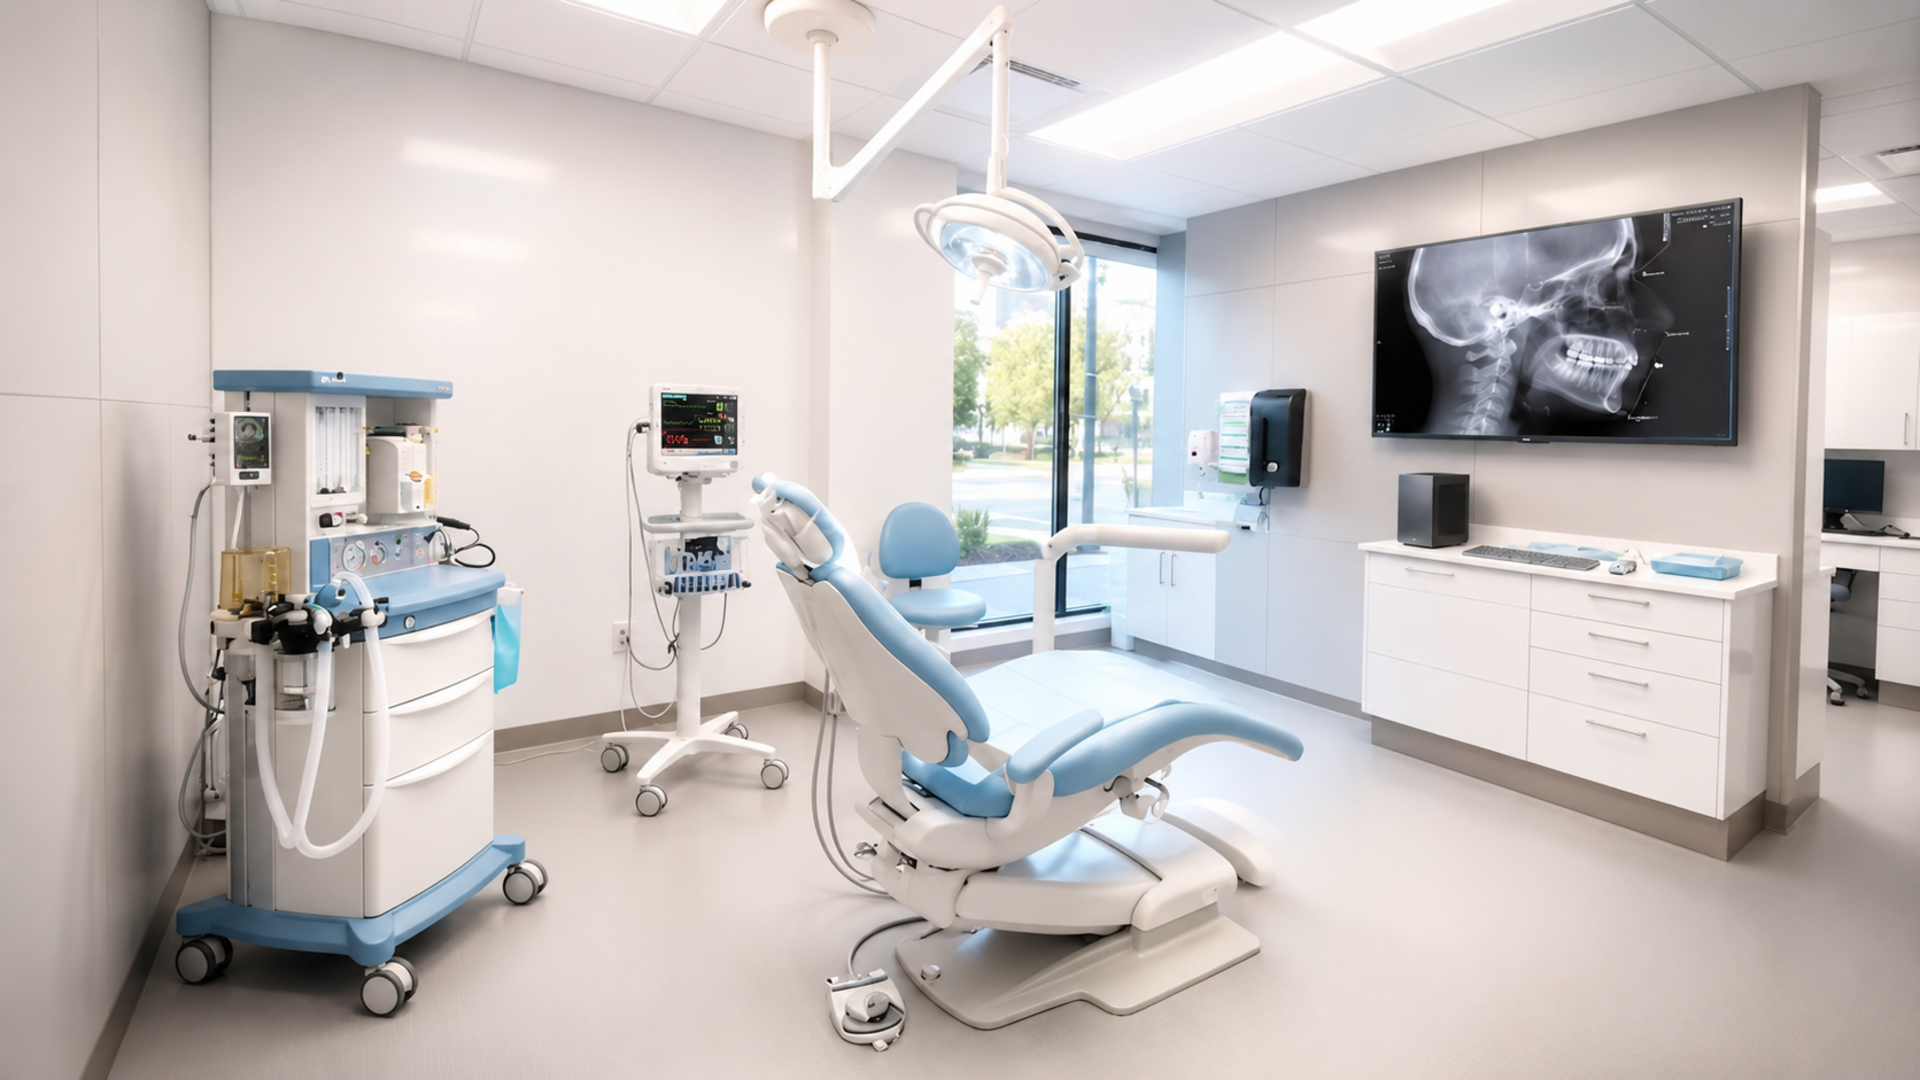
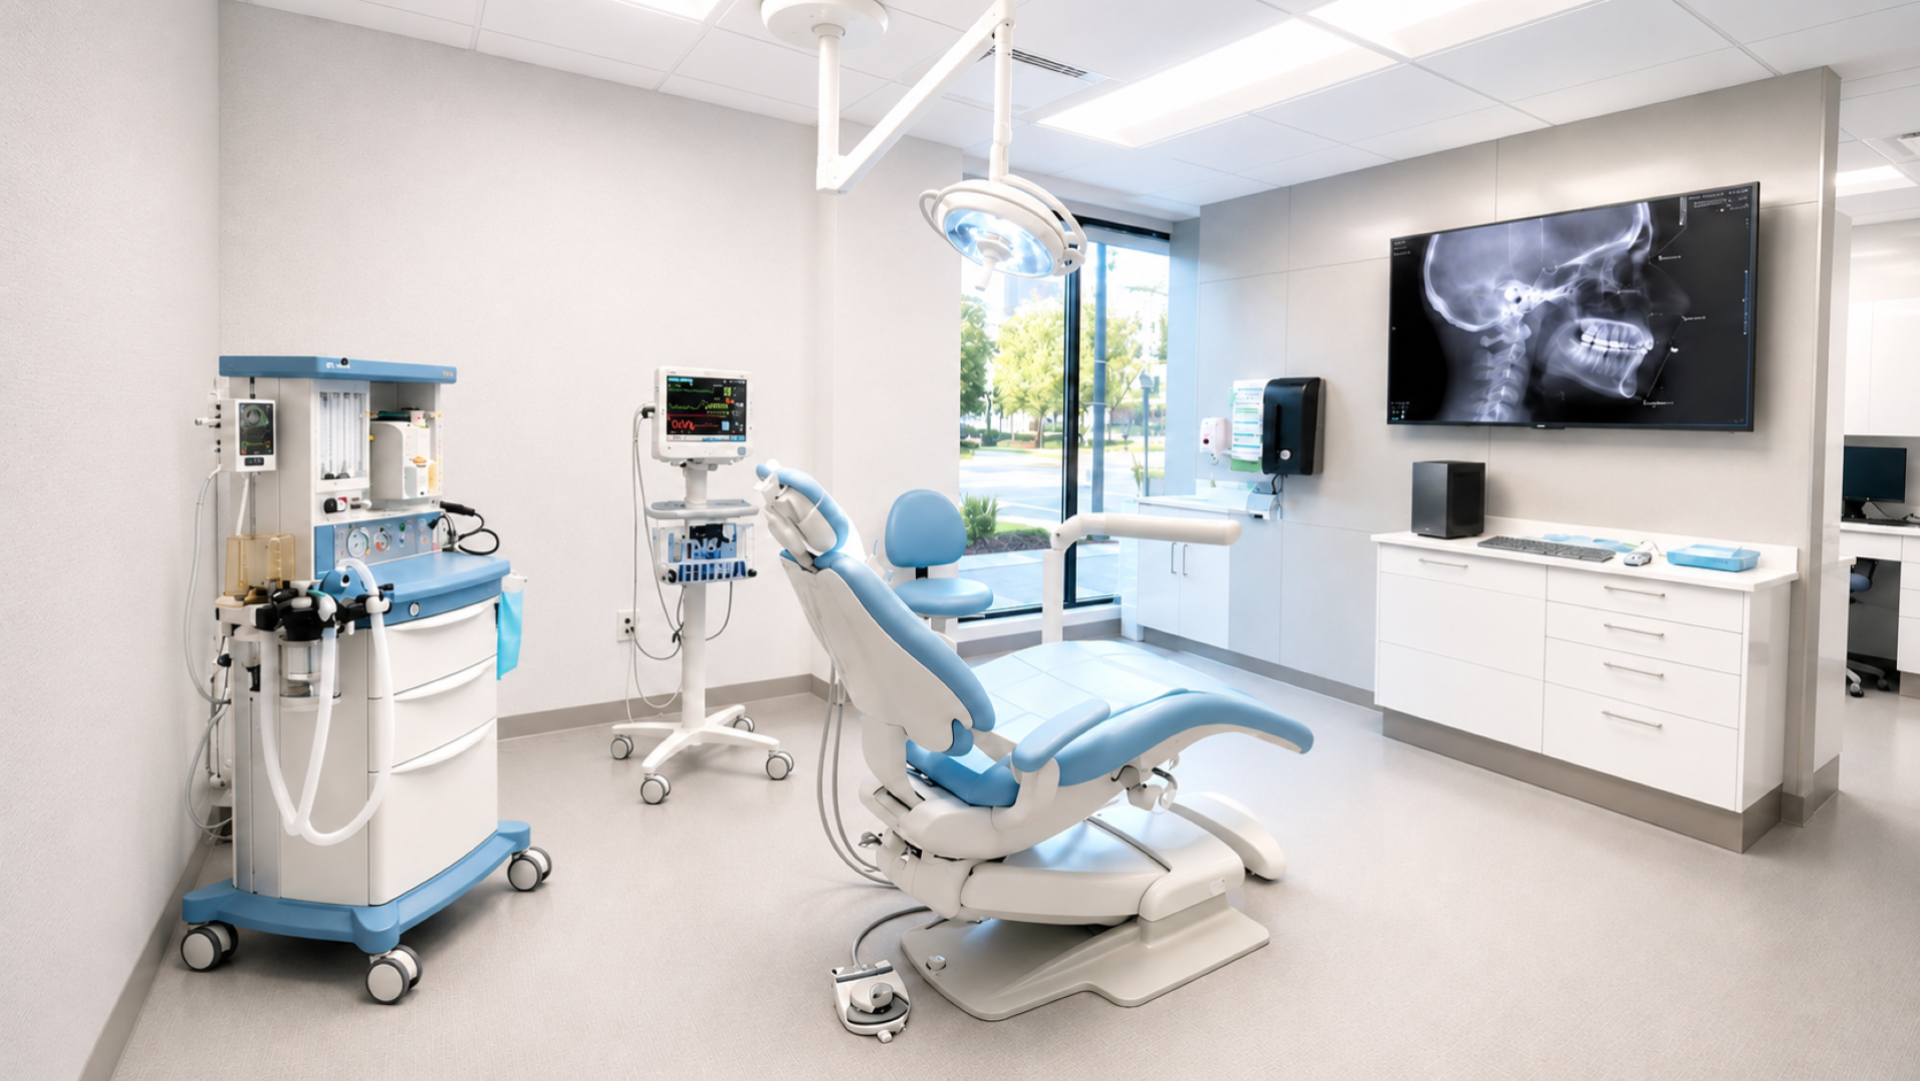
new contactus page, ui changes

diff --git a/src/pages/ContactUs.tsx b/src/pages/ContactUs.tsx
@@ -1,0 +1,104 @@
+import ImageWithFallback from "@/components/ImageWithFallback";
+import contactBg from "@/assets/team-collaboration.jpg";
+
+const ContactUs = () => {
+  return (
+    <div>
+      <main>
+        {/* Banner / Title section matching About Us style */}
+        <section className="pt-24 pb-2">
+          <div className="container mx-auto px-4 sm:px-6 lg:px-8">
+            <div className="relative mb-2">
+              <div className="flex justify-center">
+                <div
+                  className="relative inline-block"
+                  style={{ width: 'min(100%, 56rem)', height: 'auto' }}
+                >
+                  <div
+                    className="absolute inset-0 rounded-3xl overflow-hidden"
+                    style={{
+                      background: "#E8F1F9"
+                    }}
+                  />
+                  <div className="absolute top-3 left-8 w-24 h-24 bg-[#E3EEF7] rounded-full blur-3xl opacity-70" />
+                  <div className="absolute bottom-3 right-8 w-32 h-32 bg-[#E3EEF7] rounded-full blur-3xl opacity-60" />
+                  <div className="relative text-center py-2 px-6 w-full">
+                    <div className="flex items-center justify-center gap-4 mb-2">
+                      <div className="h-1 w-12 bg-gradient-to-r from-transparent to-[#2589CB] rounded-full" />
+                      <div className="h-1 w-1 bg-[#2589CB] rounded-full" />
+                      <div className="h-1 w-12 bg-gradient-to-l from-transparent to-[#2589CB] rounded-full" />
+                    </div>
+                    <h1 className="text-3xl sm:text-4xl font-bold mb-2 tracking-tight text-[#0D47A1]">
+                      Contact <span className="text-[#2589CB]">Us</span>
+                    </h1>
+                    <div className="flex items-center justify-center gap-4 mt-0">
+                      <div className="h-0.5 w-16 bg-gradient-to-r from-transparent to-[#617CB5]" />
+                      <div className="h-2 w-2 border-2 border-[#2589CB] rounded-full" />
+                      <div className="h-0.5 w-16 bg-gradient-to-l from-transparent to-[#617CB5]" />
+                    </div>
+                  </div>
+                </div>
+              </div>
+            </div>
+          </div>
+        </section>
+
+        {/* Contact details section */}
+        <section className="pt-6 pb-12 bg-background">
+          <div className="container mx-auto px-4 sm:px-6 lg:px-8">
+            <div className="max-w-6xl mx-auto">
+              <div className="bg-white/95 rounded-2xl shadow-sm border border-[#E6F0FA] p-6">
+                <div className="flex flex-col items-center text-center">
+                  <p className="text-lg text-muted-foreground">Reach our team</p>
+                  <p className="mt-2 max-w-2xl text-base text-muted-foreground">
+                    Use the contact information below to reach our support or schedule a demo. We're available to help you implement and get the most out of OnlineMedSys.
+                  </p>
+                </div>
+
+                <div className="mt-8 grid grid-cols-1 sm:grid-cols-3 gap-6">
+                  <div className="flex items-start gap-4 p-4 rounded-2xl bg-white border border-[#EEF6FF] shadow-sm">
+                    <div className="flex h-12 w-12 items-center justify-center rounded-full bg-[#E8F4FF] text-[#1E6FB5]">
+                      <svg width="20" height="20" viewBox="0 0 24 24" fill="none" stroke="currentColor" strokeWidth="2" strokeLinecap="round" strokeLinejoin="round" className="text-[#1E6FB5]"><path d="M4 4h16v16H4z" /><path d="M22 6L12 13 2 6" /></svg>
+                    </div>
+                    <div>
+                      <p className="text-sm uppercase text-muted-foreground">Email Us</p>
+                      <a href="mailto:support@onlinemedsys.com" className="block mt-1 text-lg font-semibold text-foreground">support@onlinemedsys.com</a>
+                      <p className="text-sm text-muted-foreground mt-1">We typically reply within 24 hours.</p>
+                    </div>
+                  </div>
+
+                  <div className="flex items-start gap-4 p-4 rounded-2xl bg-white border border-[#EEF6FF] shadow-sm">
+                    <div className="flex h-12 w-12 items-center justify-center rounded-full bg-[#E8FFF4] text-[#1EA56F]">
+                      <svg width="20" height="20" viewBox="0 0 24 24" fill="none" stroke="currentColor" strokeWidth="2" strokeLinecap="round" strokeLinejoin="round" className="text-[#1EA56F]"><path d="M22 16.92V19a2 2 0 0 1-2.18 2 19.79 19.79 0 0 1-8.63-3.07 19.5 19.5 0 0 1-6-6 19.79 19.79 0 0 1-3.07-8.63A2 2 0 0 1 5 2h2.09a2 2 0 0 1 2 1.72c.12.86.35 1.7.67 2.5a2 2 0 0 1-.45 2.11L8.91 9.91a16 16 0 0 0 6 6l1.58-1.58a2 2 0 0 1 2.11-.45c.8.32 1.64.55 2.5.67A2 2 0 0 1 22 16.92z" /></svg>
+                    </div>
+                    <div>
+                      <p className="text-sm uppercase text-muted-foreground">Call Us</p>
+                      <a href="tel:+17138408640" className="block mt-1 text-lg font-semibold text-foreground">713-840-8640</a>
+                      <p className="text-sm text-muted-foreground mt-1">Mon - Fri: 8:00 AM - 6:00 PM (CST)</p>
+                    </div>
+                  </div>
+
+                  <div className="flex items-start gap-4 p-4 rounded-2xl bg-white border border-[#EEF6FF] shadow-sm">
+                    <div className="flex h-12 w-12 items-center justify-center rounded-full bg-[#F3E9FF] text-[#7C4DFF]">
+                      <svg width="20" height="20" viewBox="0 0 24 24" fill="none" stroke="currentColor" strokeWidth="2" strokeLinecap="round" strokeLinejoin="round" className="text-[#7C4DFF]"><path d="M21 10c0 7-9 12-9 12S3 17 3 10a9 9 0 0 1 18 0z" /><circle cx="12" cy="10" r="3" /></svg>
+                    </div>
+                    <div>
+                      <p className="text-sm uppercase text-muted-foreground">Our Address</p>
+                      <div className="mt-1 text-lg font-semibold text-foreground">
+                        <p>OnlineMedSys.com</p>
+                        <p>5599 San Felipe, Suite 900</p>
+                        <p>Houston, TX 77056</p>
+                      </div>
+                    </div>
+                  </div>
+                </div>
+              </div>
+            </div>
+          </div>
+        </section>
+      </main>
+    </div>
+  );
+};
+
+export default ContactUs;

diff --git a/src/components/Hero.tsx b/src/components/Hero.tsx
@@ -58,18 +58,18 @@ const Hero = () => {
                 {/* Background Image with Overlay */}
                 <div className="absolute inset-0 z-0">
                   <img src={slide.image} alt={slide.title} className="w-full h-full object-cover" loading="eager" decoding="async" />
-                  <div className="absolute inset-0 bg-gradient-to-r from-background/85 via-background/50 to-transparent" />
+                  {index !== 0 && <div className="absolute inset-0 bg-gradient-to-r from-background/85 via-background/50 to-transparent" />}
                 </div>
 
                 {/* Content */}
                 <div className="container mx-auto px-4 sm:px-6 lg:px-8 relative z-10">
-                  <div className="max-w-4xl">
+                  <div className={`max-w-3xl ${index === 0 ? "-mt-20 sm:-mt-24 lg:-mt-60" : ""}`}>
                     <h1
                       className={
                         "font-bold mb-6 animate-fade-in text-foreground break-words" +
                           (slide.title === "Advanced Oral Surgery with Clinical Excellence" ? " mt-0 sm:mt-0" : "")
                       }
-                      style={{ fontSize: '50px', lineHeight: '1.3' }}
+                      style={{ fontSize: '50px', lineHeight: '1', marginTop: index === 0 ? '-48px' : undefined }}
                     >
                       {index === 0 ? (
                         <>
@@ -94,16 +94,17 @@ const Hero = () => {
                       )}
                     </h1>
 
-                    <p
+                    <p style={{ position: 'absolute', top: '90px' }}
                       className={
-                        `text-xl text-foreground mb-8 leading-relaxed animate-fade-in` +
-                          (slide.title === "Advanced Oral Surgery with Clinical Excellence" ? " mt-16 sm:mt-24 mb-0 sm:mb-0 -mt-4" : "")
+                        `text-xl mb-8 leading-relaxed animate-fade-in` +
+                          (slide.title === "Advanced Oral Surgery with Clinical Excellence" ? " mt-16 sm:mt-24 mb-0 sm:mb-0 -mt-4" : "") +
+                          (index === 0 ? " mt-12 sm:mt-16 lg:mt-10" : "")
                       }
                     >
                       {index === 0 ? (
                         <>
-                          <span className="block">Our cloud-based technology delivers powerful solutions –</span>
-                          <span className="block">providing the practice management tools necessary for your success.</span>
+                          <span className="block text-black">Our cloud-based technology delivers powerful solutions –</span>
+                          <span className="block text-black">providing the practice management tools necessary for your success.</span>
                         </>
                       ) : (
                         slide.description

diff --git a/src/components/Header.tsx b/src/components/Header.tsx
@@ -36,9 +36,9 @@ const navItems = [
     },
     {
       name: "Contact Us",
-      href: "#contact",
+      href: "/contact-us",
       icon: Mail,
-      isRoute: false
+      isRoute: true
     }
   ];
 
@@ -94,7 +94,7 @@ const Header = () => {
               );
             })}
             <div className="flex items-center gap-3 ml-4">
-              <Button variant="outline" size="lg" onClick={() => navigate('/login')}>
+              <Button variant="outline" size="lg" onClick={() => navigate('/login')} className="invisible">
                 Login
               </Button>
               <Button asChild variant="default" size="lg">
@@ -131,7 +131,7 @@ const Header = () => {
                 );
               })}
               <div className="flex flex-col gap-3 mt-2">
-                <Button variant="outline" size="lg" onClick={() => { navigate('/login'); setIsMenuOpen(false); }}>
+                <Button variant="outline" size="lg" onClick={() => { navigate('/login'); setIsMenuOpen(false); }} className="invisible">
                   Login
                 </Button>
                 <Button asChild variant="default" size="lg">

diff --git a/src/components/HealthcareFeatures.tsx b/src/components/HealthcareFeatures.tsx
@@ -242,7 +242,7 @@ const HealthcareFeatures = () => {
   }, {
     image: revenueCycleImage,
     title: "Revenue Cycle Management",
-    description: "Maximize your practice's financial performance with our intelligent billing and revenue cycle management solution. Medical & dental claim submission, line item posting denial management, strengthen your billing processes. Our analytics dashboard provides insights into financial performance, helping you identify opportunities for revenue optimization."
+    description: "Maximize your practice's financial performance with our intelligent billing and revenue cycle management solution. Medical & dental claim submission, line item posting and denial management, strengthen your billing processes. Our analytics dashboard provides insights into financial performance, helping you identify opportunities for revenue optimization."
   }, {
     image: emrImage,
     title: "Electronic Medical Records",

diff --git a/src/App.tsx b/src/App.tsx
@@ -14,6 +14,7 @@ import ServiceDetail from "./pages/ServiceDetail";
 import Login from "./pages/Login";
 import BookDemo from "./pages/BookDemo";
 import Resources from "./pages/Resources";
+import ContactUs from "./pages/ContactUs";
 
 const queryClient = new QueryClient();
 
@@ -45,6 +46,7 @@ const App = () => (
             <Route path="login" element={<Login />} />
             <Route path="book-demo" element={<BookDemo />} />
             <Route path="resources" element={<Resources />} />
+            <Route path="contact-us" element={<ContactUs />} />
           </Route>
           {/* ADD ALL CUSTOM ROUTES ABOVE THE CATCH-ALL "*" ROUTE */}
           <Route path="*" element={<NotFound />} />
